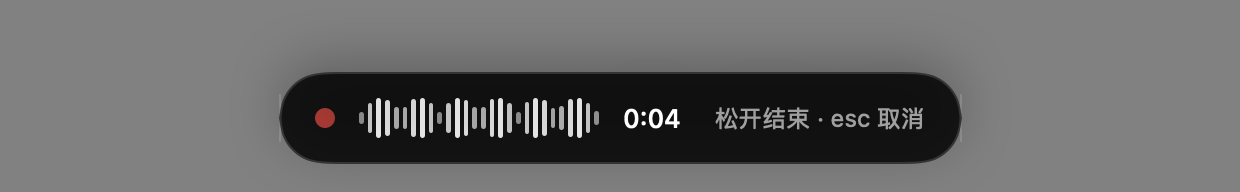
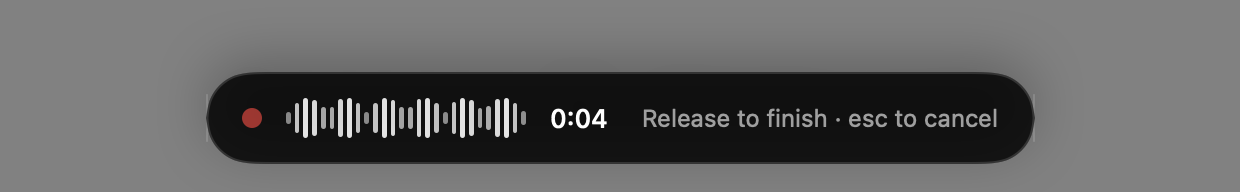
Deploy from personal_site

Changed region(s): [[0.1532, 0.375, 0.8581, 0.875]]

diff --git a/blog/ai/mywisper/index.html b/blog/ai/mywisper/index.html
@@ -195,7 +195,7 @@
       <div class="blog-content__inner"><h1>Dictation That Stays on My Mac</h1><p class="blog-post__date">Nov 10, 2026</p>
 <p>Dictation apps like Wispr Flow work the same way: hold a key, talk, let go, and the text lands wherever the cursor is. That's a nice way to write a long message, and I wanted it without sending my voice to anyone's server.</p>
 <p>My first attempt was a Python app called MyWisper, which I had Gemini write. It didn't quite work. It uses <strong>SenseVoice-Small</strong>, a small open speech recognition model that handles Mandarin, English, Cantonese, Japanese and Korean. Quantized to 8 bits, it's about 230 MB and runs on the CPU through sherpa-onnx. The model was never the problem: it transcribes a sentence in 30 to 50 ms. Everything around it was.</p>
-<p>For the second attempt I handed it to Claude, as with my other recent projects. It reviewed the Python version, rewrote it as a native app, and fixed what I ran into using it. All of that happened on one day.</p>
+<p>For the second attempt I handed it to Claude, as with my other recent projects. It reviewed the Python version, rewrote it as a native app, and fixed what I ran into using it. By just after midnight, it was a public release. All in one long day.</p>
 <h2>What was wrong with the Python version</h2>
 <p>Claude's review found four real bugs:</p>
 <ul>
@@ -215,10 +215,10 @@
 </ul>
 <p><img src="/images/blog/mywisper/architecture.svg" alt="Two columns. The first version, in Python: a hotkey listener that keeps its own recording flag, a controller that locks while transcribing, the microphone, SenseVoice-Small through sherpa-onnx's Python bindings, and a paste through pbcopy and AppleScript; around it a menu bar that crashes at launch and an HTTP API with no password. The native version: a system event tap, one state machine, AVAudioEngine, SenseVoice-Small through the C library with the model inside the app, and a paste that stays on this Mac; around it a SwiftUI menu bar popup and recording bar, and no network code at all."></p>
 <p>Loading the model takes 0.35 seconds at startup. After that, five seconds of speech take about 50 ms to transcribe. Letting go of the key and seeing the text feels instant.</p>
-<p><img src="/images/blog/mywisper/menu.png" alt="The MyWisper menu: a large &quot;start dictation&quot; button showing the hotkey, right Option, and the three most recent dictations below it, in Chinese and English, each with its age and length."></p>
+<p><img src="/images/blog/mywisper/menu.png" alt="The MyWisper menu: a large &quot;Start dictation&quot; button showing the hotkey, right Option, and the three most recent dictations below it, in Chinese and English, each with its age and length."></p>
 <p><em>The menu bar popup, rendered by the app itself with sample text. Clicking an entry copies it.</em></p>
 <p>While you talk, a small bar at the bottom of the screen shows a live waveform and the time. It never takes focus, so the text still goes into the window you were typing in.</p>
-<p><img src="/images/blog/mywisper/hud-recording.png" alt="A black capsule at the bottom of the screen: a red recording dot, a waveform, 0:04, and the hint &quot;release to finish, esc to cancel&quot; in Chinese."></p>
+<p><img src="/images/blog/mywisper/hud-recording.png" alt="A black capsule at the bottom of the screen: a red recording dot, a waveform, 0:04, and the hint &quot;Release to finish, esc to cancel&quot;."></p>
 <p>The hotkey had to be careful, because Option and Control are also parts of normal shortcuts:</p>
 <ul>
 <li><strong>Hold or tap.</strong> Hold the key to talk and let go to finish, or tap once to start and again to stop.</li>
@@ -243,6 +243,16 @@
 </ul>
 <p>The review found one leak I wouldn't have thought of. The app puts the text on the clipboard to paste it, and macOS's Universal Clipboard syncs the clipboard to my iPhone and other Macs. Now the app marks its clipboard writes as local to this Mac, so they don't sync.</p>
 <p>What stays on the Mac is a history file that only my account can read, which can be turned off or cleared in the settings.</p>
+<h2>Giving it away</h2>
+<p>Late that night I decided to put it on GitHub for anyone to use. A few more pieces came first:</p>
+<ul>
+<li><strong>An English interface.</strong> All of it was in Chinese. Now there are about 120 strings in both languages, following the system language unless you pick one in the settings. It only changes the interface: recognition handles both languages either way.</li>
+<li><strong>A release build.</strong> Signing the app with the same self-signed certificate means later versions keep the permissions people have already granted, so that certificate needs a backup now. The build also stopped embedding a library path that contained my home folder.</li>
+<li><strong>The licenses.</strong> The app is MIT. The model, sherpa-onnx and ONNX Runtime each have their own license, and their notices ship inside the app.</li>
+<li><strong>A last check.</strong> Before the repository went public, Claude scanned every file and the whole git history for private information like internal addresses or passwords.</li>
+</ul>
+<p>What I skipped was Apple's $99-a-year Developer ID. Without it, macOS can't verify the app and blocks the first launch; you allow it once under Privacy &amp; Security. The release script will notarize it if I ever get one.</p>
+<p><a href="https://github.com/phg1024/MyWisper">MyWisper is on GitHub</a>, with a download of about 180 MB (the model is most of it) for Apple silicon Macs on macOS 15 or later. The About page has links to GitHub Sponsors and Buy Me a Coffee. They open in the browser only when clicked, so the app itself still has no network code.</p>
 <p>The lesson I'd take: <strong>on a Mac, the model is the easy part</strong>. SenseVoice was fast and accurate from the first test. The day went into keys, permissions, signing and the clipboard: everything between my voice and the cursor.</p>
 
       <footer class="post-meta">

diff --git a/index.html b/index.html
@@ -182,7 +182,7 @@
     <li class="writing-item">
         <div class="writing-item__main">
             <h2 class="writing-item__title"><a href="/blog/ai/mywisper/">Dictation That Stays on My Mac</a></h2>
-            <p class="writing-item__brief">Hold a key, talk, let go, and the words appear wherever the cursor is. My first version, a Python app Gemini wrote, didn&#39;t quite work: its menu bar icon never appeared, and any web page could read what I&#39;d dictated. So it became a native Mac app, with a small speech model that transcribes five seconds of speech in 50 ms and never touches the network.</p>
+            <p class="writing-item__brief">Hold a key, talk, let go, and the words appear wherever the cursor is. My first version, a Python app Gemini wrote, didn&#39;t quite work: its menu bar icon never appeared, and any web page could read what I&#39;d dictated. So it became a native Mac app, with a small speech model that transcribes five seconds of speech in 50 ms and never touches the network. It&#39;s now free on GitHub.</p>
             <p class="writing-item__tags"><a href="/tag/ai/">AI</a> · <a href="/tag/local-inference/">Local inference</a></p>
         </div>
         <p class="writing-item__when">Nov 10, 2026</p>
